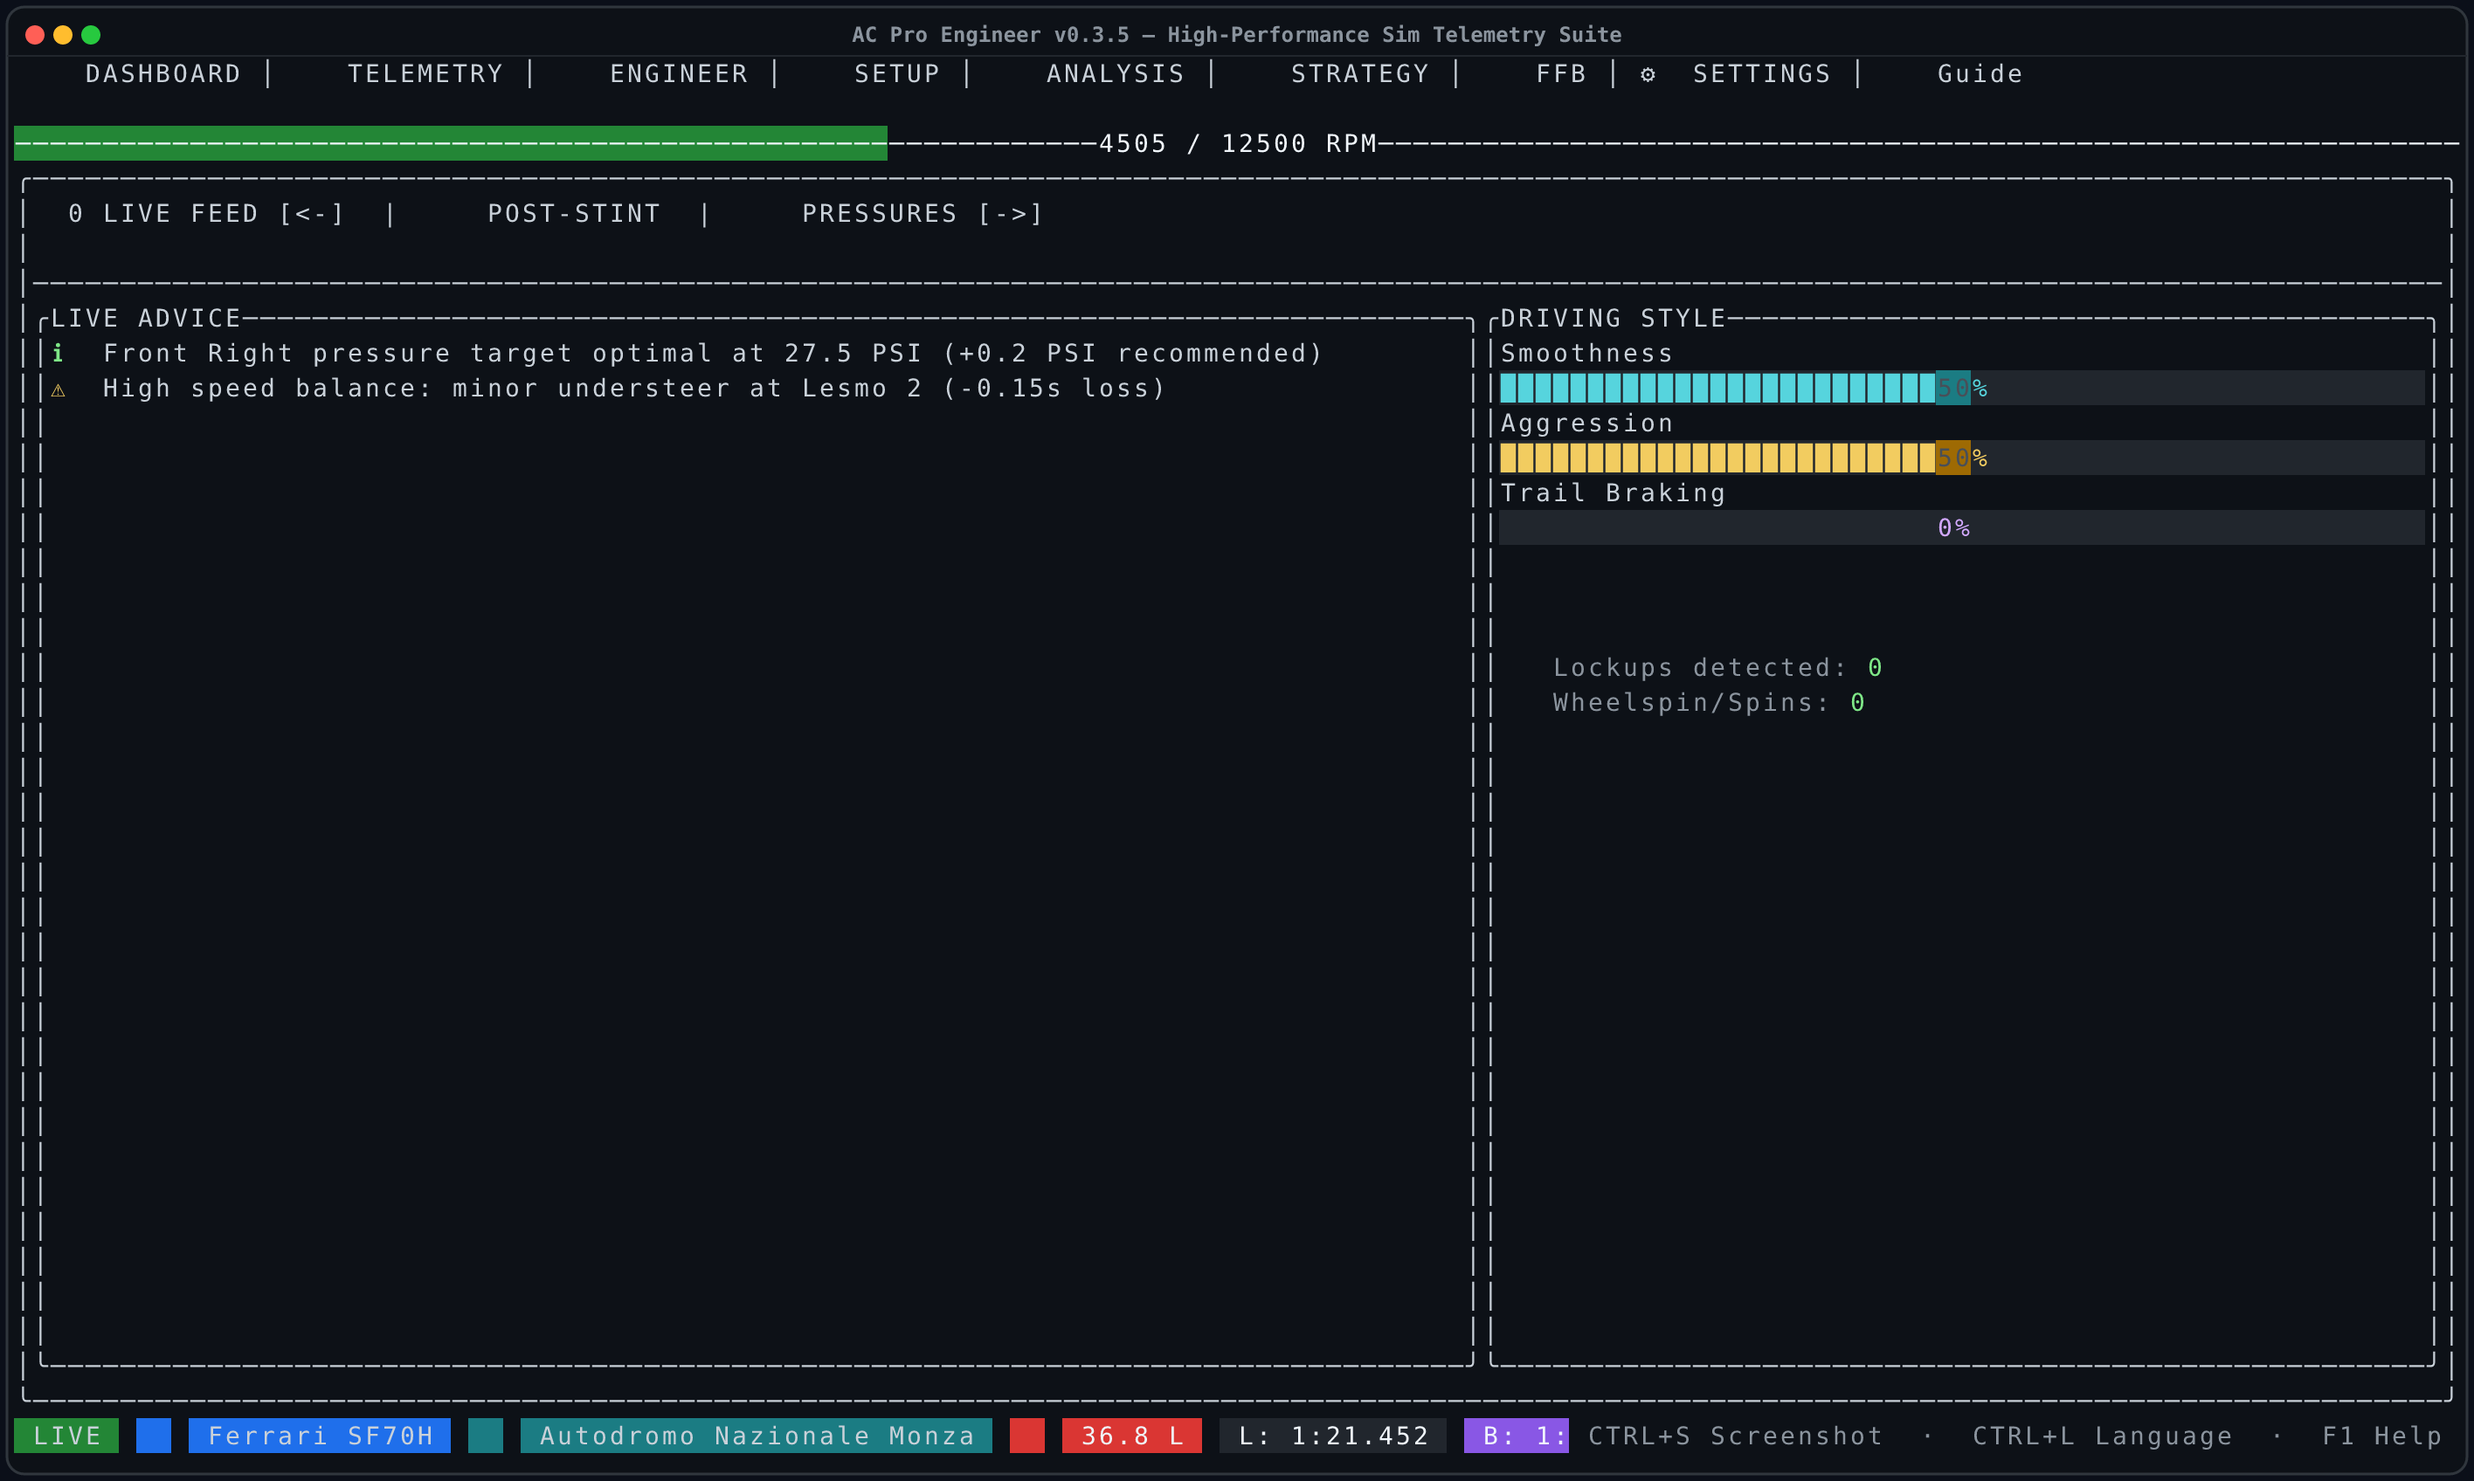
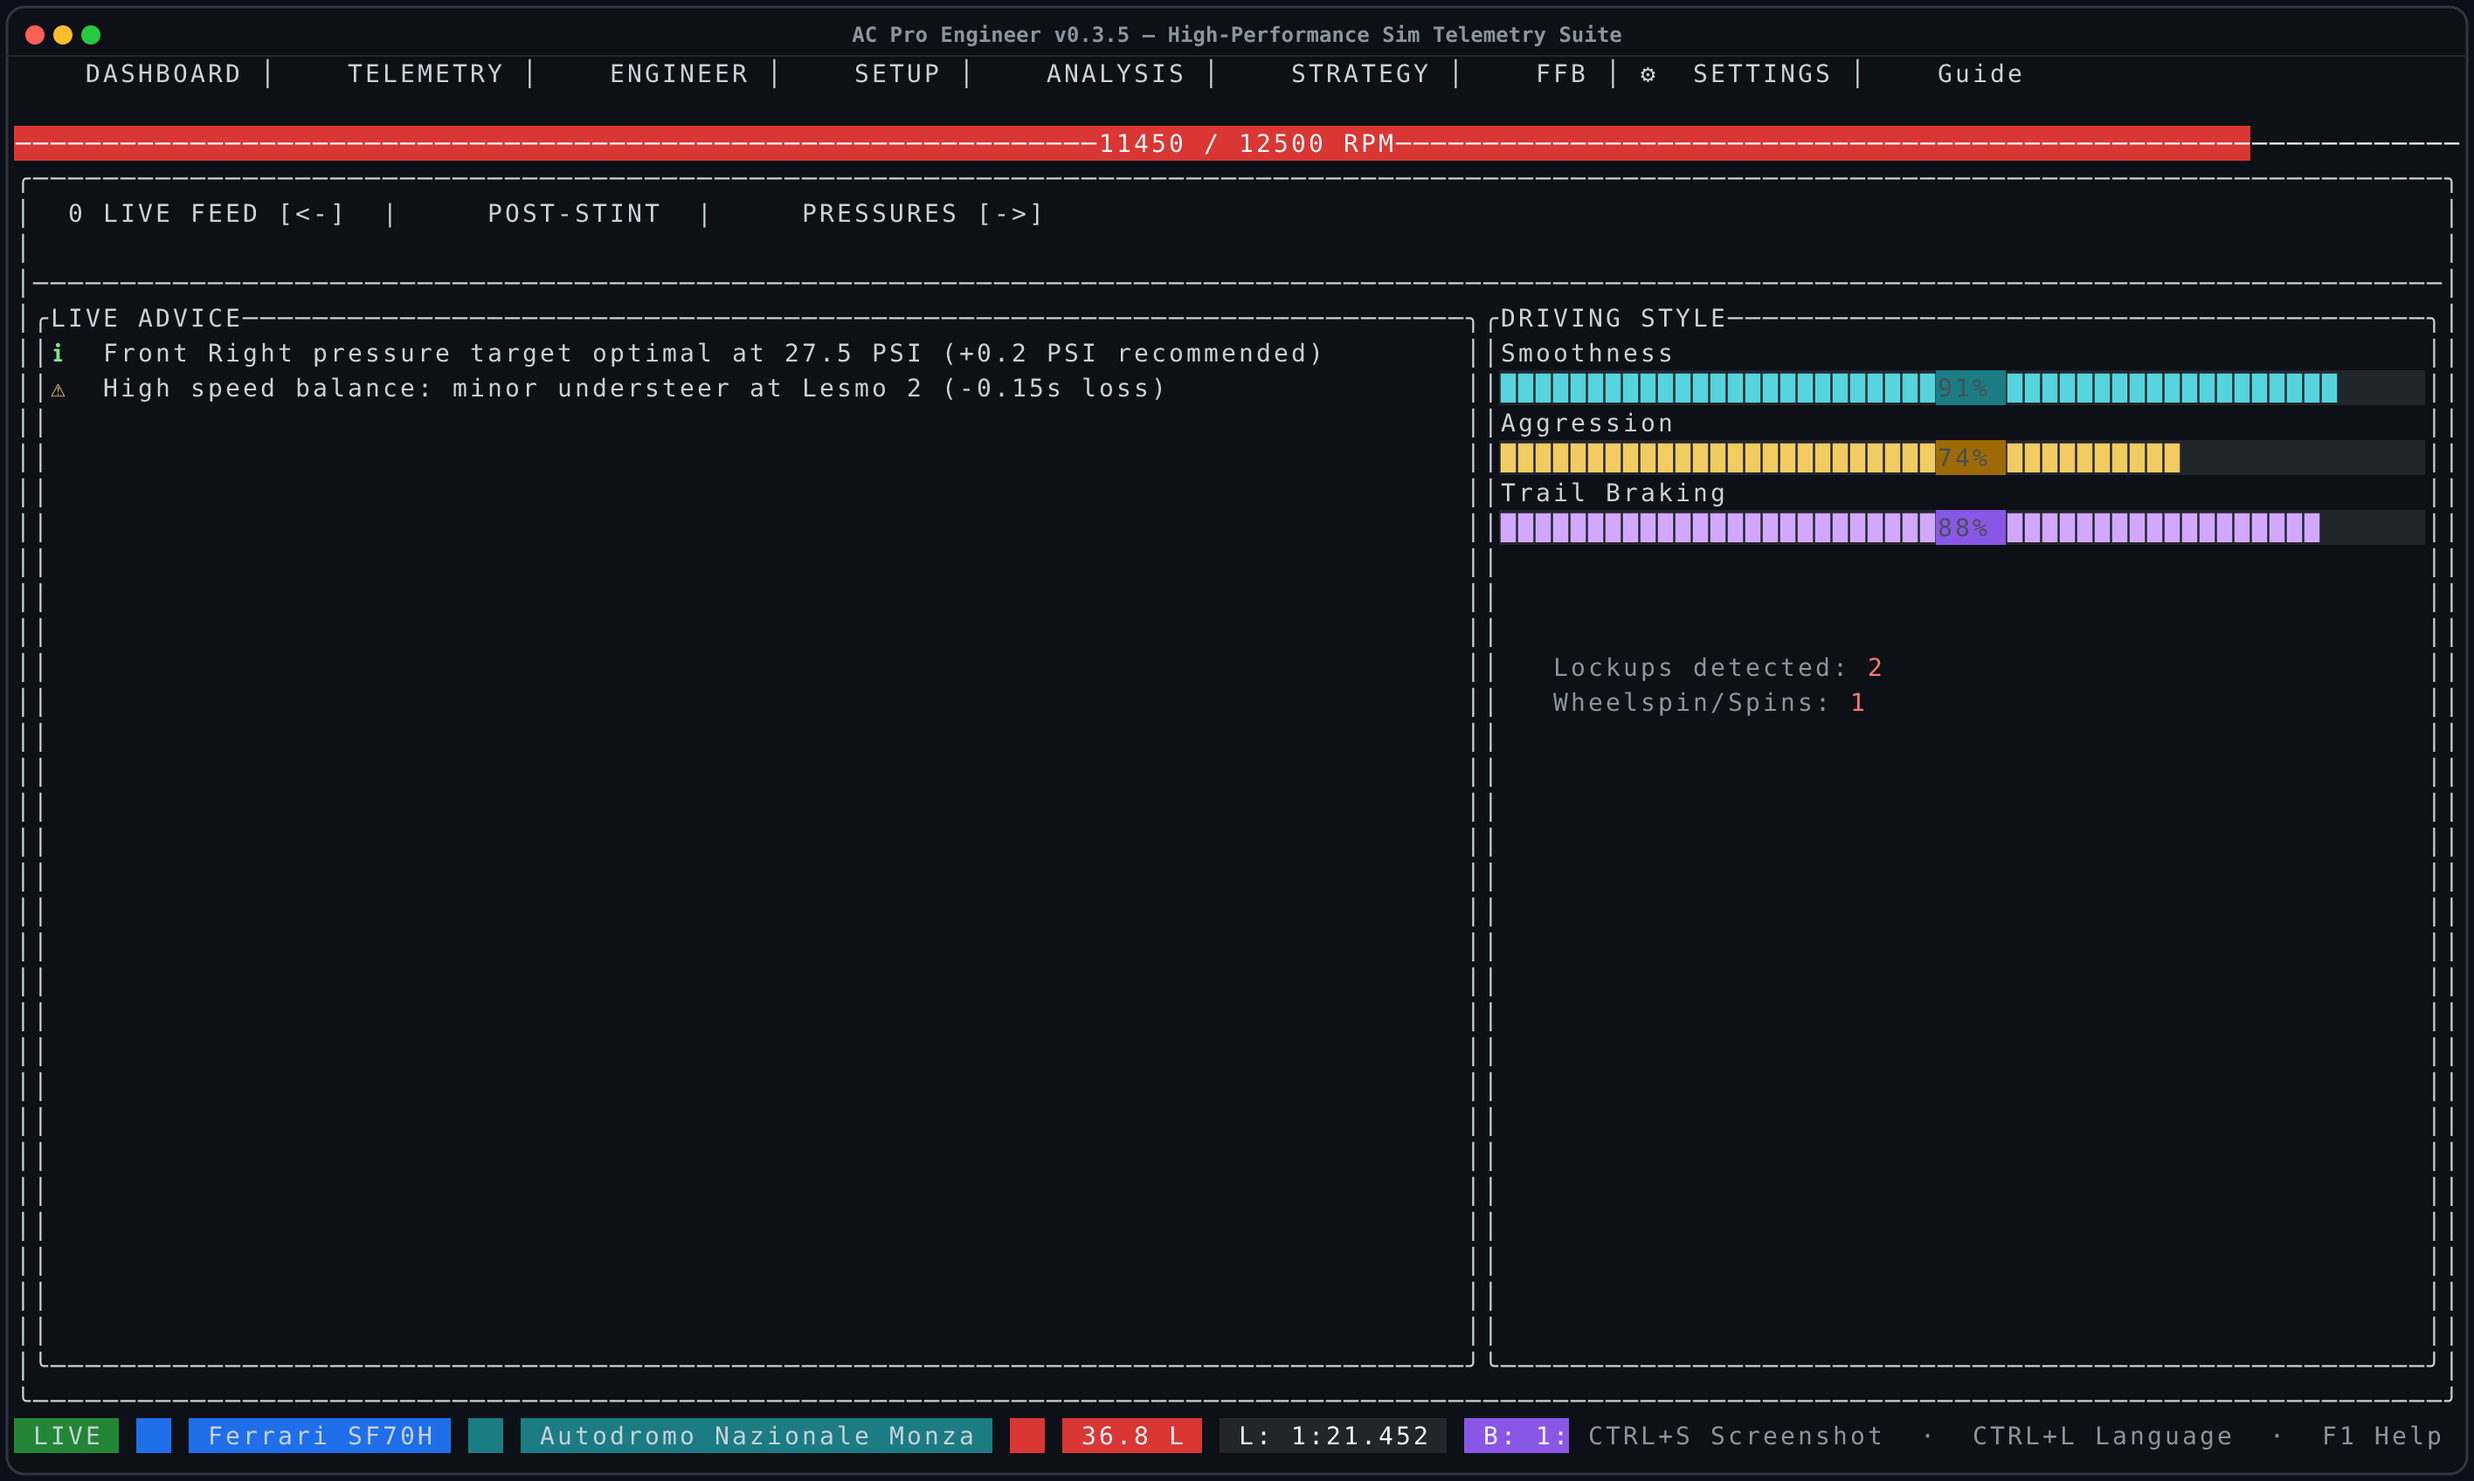
fix(screenshots): four things the pictures showed that were not true
Every screenshot in the README comes from `tui_tester`'s fixture, and the
fixture had drifted from what the program actually produces. None of
these were bugs in the application; all four were visible to anyone
looking at the README.

**Two different rev counts on one screen.** The header bar reads
`physics_history.last()` and the cockpit reads the live physics — the
same tick in the running application, and two unrelated numbers here,
because the loop walks a sine and the mock is one curated frame. Every
Dashboard shot went out with "4505 / 12500 RPM" across the top and
"11450 RPM" underneath it. The curated frame is pushed last now, so the
history ends where the live readouts are.

**"Aggression: 8800.0%".** `RadarStats` is nought to one everywhere the
analyzer builds it — every field is `score / 100.0` — and the fixture
wrote percentages. The Analysis tab multiplies by a hundred to display
them, which is right for real data and gave 8800% for this.

**A pace chart with one point in it.** One lap in the analyzer, so the
Strategy tab's chart drew a single dot in an empty box and the Analysis
lap list had one row. Five laps now, numbered from one, with a plausible
spread and the quickest last so it is the reference the ghost uses.

**A driving-style panel at its neutral defaults.** The Engineer tab reads
the live driving style and the frame counters, which nothing filled — so
beside a populated advice feed it drew Smoothness 50%, Aggression 50%
[…]

Changed region(s): [[0.0, 0.0625, 0.9322, 0.125], [0.5904, 0.25, 0.9633, 0.375]]

diff --git a/tui/src/bin/tui_tester.rs b/tui/src/bin/tui_tester.rs
@@ -156,6 +156,22 @@ fn create_populated_app_state() -> AppState {
         }
     }
 
+    // The curated frame goes in last, so the history ends where the live
+    // readouts are.
+    //
+    // The header's rev bar reads `physics_history.last()` and the cockpit
+    // reads the live physics — the same tick in the running application, and
+    // two unrelated numbers here, because the loop above walks a sine and the
+    // mock is set to one good-looking frame. Every Dashboard screenshot went
+    // out with "4505 / 12500 RPM" across the top and "11450 RPM" in the
+    // cockpit underneath it, which reads as the program disagreeing with
+    // itself.
+    app.physics_history.push(phys);
+    if let Some(mut g) = app.mock_graphics {
+        g.i_current_time = 42_500;
+        app.graphics_history.push(g);
+    }
+
     // Lap Data for Analysis
     let mock_lap = LapData {
         lap_number: 4,
@@ -202,12 +218,17 @@ fn create_populated_app_state() -> AppState {
         car_control_score: 95.0,
         scrubbing_incidents: 0,
         max_steering_over_rotation: 0.0,
+        // Nought to one, which is the scale `TelemetryAnalyzer` produces —
+        // every field there is `score / 100.0`. Written as percentages here,
+        // they were a hundred times too big, and the Analysis tab's Inputs box
+        // multiplies by a hundred to display them: every screenshot of it went
+        // out reading "Aggression: 8800.0%".
         radar_stats: RadarStats {
-            consistency: 94.0,
-            car_control: 95.0,
-            aggression: 88.0,
-            smoothness: 93.0,
-            tyre_mgmt: 91.0,
+            consistency: 0.94,
+            car_control: 0.95,
+            aggression: 0.88,
+            smoothness: 0.93,
+            tyre_mgmt: 0.91,
         },
         telemetry_trace: trace_points,
         bounds_min_x: -160.0,
@@ -216,8 +237,38 @@ fn create_populated_app_state() -> AppState {
         bounds_max_y: 90.0,
     };
 
-    app.analyzer.laps.push(mock_lap);
-    app.analyzer.best_lap_index = Some(0);
+    // A stint, not a lap. The Strategy tab's pace chart plots lap times against
+    // lap number and the Analysis tab lists them, and with one lap in the
+    // analyzer both drew a single dot in an empty box — a picture of a feature
+    // not working. Five laps with a plausible spread: a slower first flying
+    // lap, two quick ones, a scrappy one, then the best.
+    for (number, delta_ms) in [(1, 1_480), (2, 320), (3, 640), (4, 2_050)] {
+        let mut lap = mock_lap.clone();
+        // Numbered from one, the way a driver counts them and the way the
+        // chart's axis reads.
+        lap.lap_number = number;
+        lap.lap_time_ms = mock_lap.lap_time_ms + delta_ms;
+        // The sectors have to add up to the lap, or the Analysis tab shows a
+        // split that disagrees with the time beside it.
+        lap.sectors[2] += delta_ms;
+        app.analyzer.laps.push(lap);
+    }
+    let mut best = mock_lap.clone();
+    best.lap_number = 5;
+    app.analyzer.laps.push(best);
+
+    // The Engineer tab's DRIVING STYLE box reads the live driving style and
+    // the frame counters, neither of which anything filled — so beside a
+    // populated advice feed it drew Smoothness 50%, Aggression 50% and Trail
+    // Braking 0%, which is the neutral state the engineer sits at before it
+    // has seen a lap. It reads as the panel not working.
+    app.engineer.driving_style.smoothness = 91.8;
+    app.engineer.driving_style.aggression = 74.0;
+    app.engineer.driving_style.trail_braking = 88.4;
+    app.engineer.stats.lockup_frames_front = 2;
+    app.engineer.stats.wheel_spin_frames = 1;
+    // The last one is the quickest, so it is the reference the ghost uses.
+    app.analyzer.best_lap_index = Some(app.analyzer.laps.len() - 1);
 
     // Engineer Recommendations
     app.recommendations.push(Recommendation {
@@ -304,11 +355,17 @@ fn main() -> Result<(), Box<dyn std::error::Error>> {
         .settings
         .set_category(ac_tui::ui::tabs::settings::SettingsCategory::System);
 
-    // 4. Analysis_Radar
+    // 4. Analysis_Traces — the TELEMETRY sub-tab.
+    //
+    // This was called `Analysis_Radar` and the README captioned it "Driver
+    // radar", describing a screen that scores braking and consistency. There
+    // is no radar sub-tab: `next_tab` lands on TELEMETRY, and the scores are
+    // the Driving Evaluation box on OVERVIEW, which the shot above already
+    // shows. The picture and its caption had never agreed.
     app.active_tab = AppTab::Analysis;
     app.ui_state.analysis.next_tab();
     terminal.draw(|f| renderer.render(f, &app))?;
-    capture(&terminal, width, height, screenshot_dir, "Analysis_Radar")?;
+    capture(&terminal, width, height, screenshot_dir, "Analysis_Traces")?;
 
     // 4b. Overlay_Diagnostics — the answer to "why is the panel blank",
     // which until this release only existed as a cargo example.

diff --git a/README.md b/README.md
@@ -292,10 +292,12 @@ Lap history and traces: throttle, brake, steering and speed against distance,
 with a ghost lap overlaid. `S` saves the selected lap, `L` loads one from disk,
 `C` toggles the ghost, `E` exports MoTeC-compatible CSV.
 
-![Driver radar](screenshots/Analysis_Radar.png)
+![Telemetry traces](screenshots/Analysis_Traces.png)
 
-A second sub-tab scores braking, throttle control, consistency, racing line and
-tyre management, with a coach report explaining each number.
+`←/→` moves between five sub-tabs. **TELEMETRY** is the traces above — delta
+against your best, speed, both pedals and steering against time. **DYNAMICS**,
+**ENGINE** and **TRACTION** break the same lap down further, and **OVERVIEW**
+carries the sector split, the driving scores and the per-corner temperatures.
 
 ### 6 — Strategy
 
